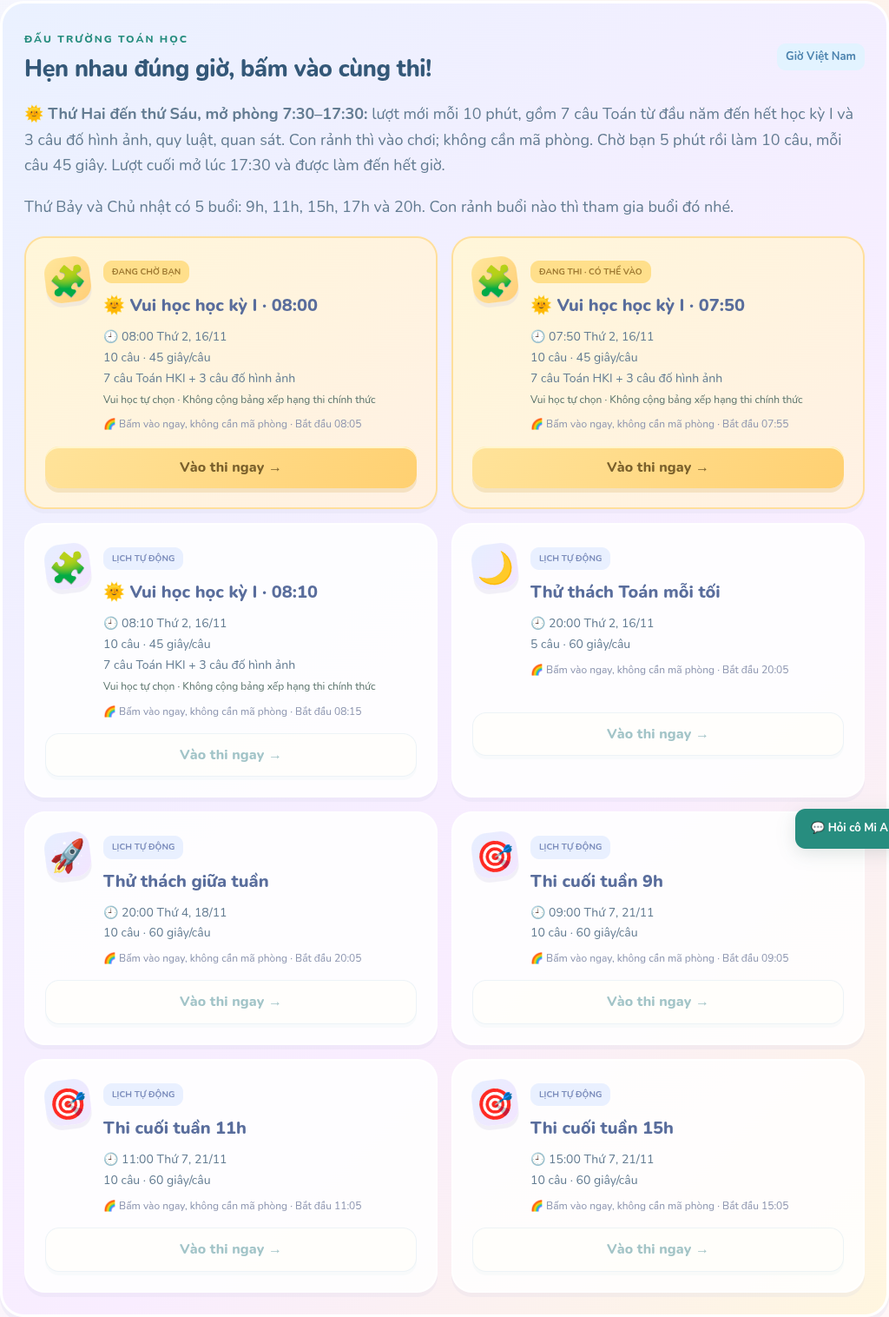
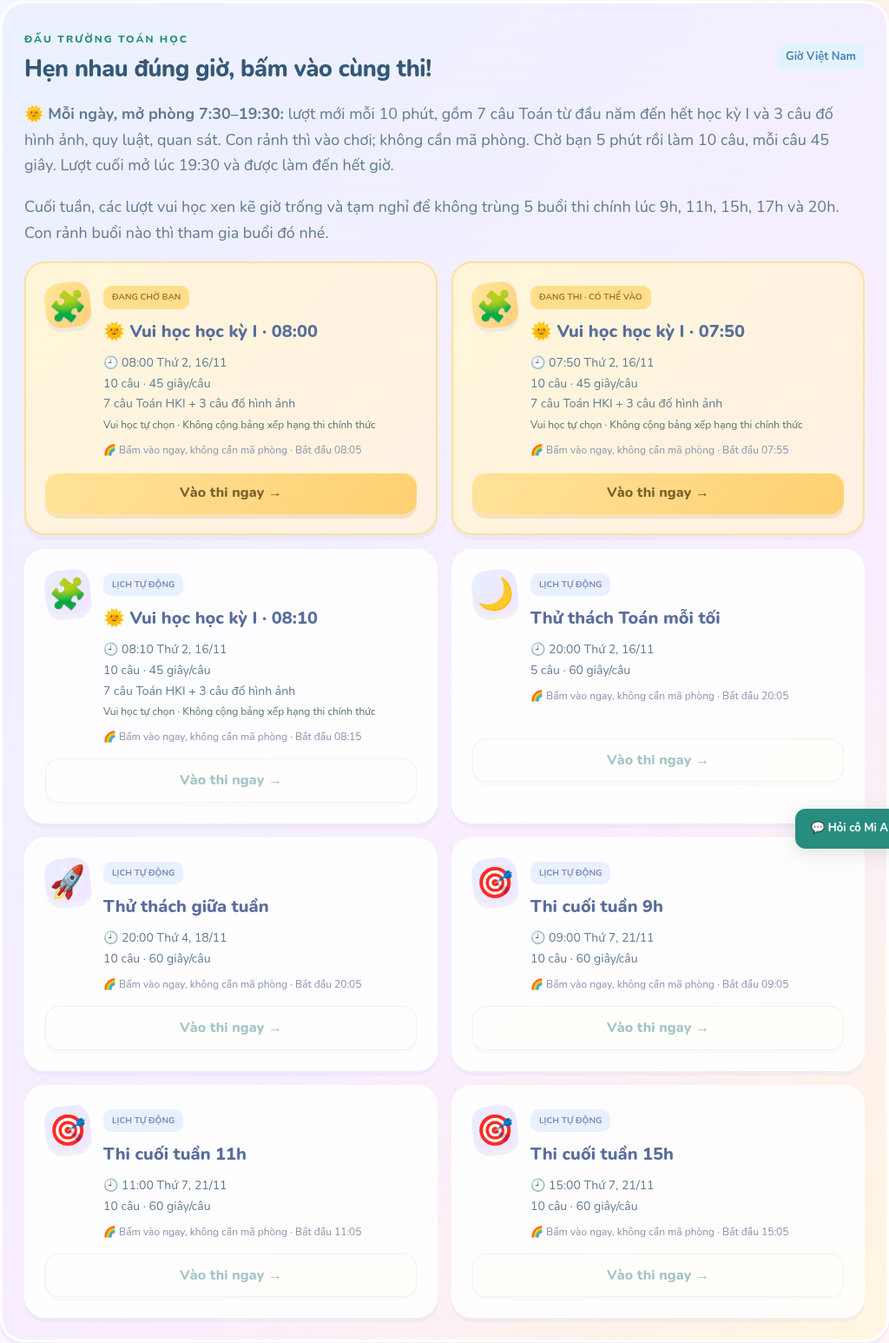
Extend practice to 19:30 daily and fill weekend gaps around main contests

diff --git a/online.js b/online.js
@@ -77,7 +77,7 @@ const MIAOnline=(()=>{
  function clockTime(t){return new Date(t).toLocaleTimeString('vi-VN',{timeZone:'Asia/Ho_Chi_Minh',hour:'2-digit',minute:'2-digit'})}
  function eventTime(e){return new Date(e.opensAt).toLocaleString('vi-VN',{timeZone:'Asia/Ho_Chi_Minh',weekday:'short',day:'2-digit',month:'2-digit',hour:'2-digit',minute:'2-digit'})}
  function preferredEvent(){let time=Date.now()+feedClockOffset,timed=contestEvents.filter(e=>e.automatic&&e.status!=='ended'&&e.startsAt>time&&e.opensAt<=time+300000).sort((a,b)=>Number(b.canJoin)-Number(a.canJoin)||a.opensAt-b.opensAt);if(timed.length)return timed[0];let active=contestEvents.filter(e=>e.canJoin&&e.status!=='ended');return active.sort((a,b)=>Number(a.entryMode!=='open')-Number(b.entryMode!=='open')||Number(a.type==='daily')-Number(b.type==='daily')||b.opensAt-a.opensAt)[0]||contestEvents.filter(e=>e.status!=='ended').sort((a,b)=>a.opensAt-b.opensAt)[0]}
- function contestHub(){return `<section class="mia-contest-hub"><div class="section-head"><div><span class="eyebrow">ĐẤU TRƯỜNG TOÁN HỌC</span><h2>Hẹn nhau đúng giờ, bấm vào cùng thi!</h2></div><span class="tag">Giờ Việt Nam</span></div><p><strong>🌞 Thứ Hai đến thứ Sáu, mở phòng 7:30–17:30:</strong> lượt mới mỗi 10 phút, gồm 7 câu Toán từ đầu năm đến hết học kỳ I và 3 câu đố hình ảnh, quy luật, quan sát. Con rảnh thì vào chơi; không cần mã phòng. Chờ bạn 5 phút rồi làm 10 câu, mỗi câu 45 giây. Lượt cuối mở lúc 17:30 và được làm đến hết giờ.</p><p>Thứ Bảy và Chủ nhật có 5 buổi: 9h, 11h, 15h, 17h và 20h. Con rảnh buổi nào thì tham gia buổi đó nhé.</p><div id="contestCards">${contestCards()}</div></section>`}
+ function contestHub(){return `<section class="mia-contest-hub"><div class="section-head"><div><span class="eyebrow">ĐẤU TRƯỜNG TOÁN HỌC</span><h2>Hẹn nhau đúng giờ, bấm vào cùng thi!</h2></div><span class="tag">Giờ Việt Nam</span></div><p><strong>🌞 Mỗi ngày, mở phòng 7:30–19:30:</strong> lượt mới mỗi 10 phút, gồm 7 câu Toán từ đầu năm đến hết học kỳ I và 3 câu đố hình ảnh, quy luật, quan sát. Con rảnh thì vào chơi; không cần mã phòng. Chờ bạn 5 phút rồi làm 10 câu, mỗi câu 45 giây. Lượt cuối mở lúc 19:30 và được làm đến hết giờ.</p><p>Cuối tuần, các lượt vui học xen kẽ giờ trống và tạm nghỉ để không trùng 5 buổi thi chính lúc 9h, 11h, 15h, 17h và 20h. Con rảnh buổi nào thì tham gia buổi đó nhé.</p><div id="contestCards">${contestCards()}</div></section>`}
  function contestCards(){let daytime=contestEvents.filter(e=>e.type==='daytime'&&e.status!=='ended').sort((a,b)=>Number(b.canJoin)-Number(a.canJoin)||Number(b.status==='waiting')-Number(a.status==='waiting')||a.opensAt-b.opensAt).slice(0,3),list=[...daytime,...contestEvents.filter(e=>e.type!=='daytime'&&e.status!=='ended').slice(0,5)];return list.length?`<div class="mia-contest-cards">${list.map(e=>`<article class="mia-event-card ${e.canJoin?'live':''}"><span class="mia-event-icon">${({midweek:'🚀',weekend:'🏆',daily:'🌙',daytime:'🧩'})[e.type]||'🎯'}</span><div><span class="tag">${e.canJoin?(e.type==='daytime'?(e.status==='waiting'?'ĐANG CHỜ BẠN':'ĐANG THI · CÓ THỂ VÀO'):'ĐANG MỞ PHÒNG'):e.createdBy==='admin'?'ADMIN TỔ CHỨC':'LỊCH TỰ ĐỘNG'}</span><h3>${escape(e.title)}</h3><p>🕘 ${escape(eventTime(e))}<br>${e.total} câu · ${e.seconds} giây/câu${e.type==='daytime'?'<br>7 câu Toán HKI + 3 câu đố hình ảnh<br><em>Vui học tự chọn · Không cộng bảng xếp hạng thi chính thức</em>':''}</p><small>${e.entryMode==='open'?'🌈 Bấm vào ngay, không cần mã phòng':'🔑 Dùng mã phòng do admin cấp'}${e.startsAt?' · Bắt đầu '+clockTime(e.startsAt):' · Chờ cô bắt đầu'}</small></div><button class="btn ${e.canJoin?'gold':'secondary'}" onclick="MIAOnline.joinContest('${escape(e.id)}')" ${!e.canJoin?'disabled':''}>${e.entryMode==='open'?'Vào thi ngay →':'Nhập mã phòng →'}</button></article>`).join('')}</div>`:'<p class="meta">Cô đang tải lịch thi. Thứ Tư và Chủ nhật lúc 20h đều có thử thách cho em!</p>'}
  function renderDailyNotice(){let el=$('#dailyNotice'),e=preferredEvent();if(!el||!e)return;let preMinutes=Math.ceil((e.opensAt-Date.now()-feedClockOffset)/60000),soon=preMinutes>0&&preMinutes<=5;let active=e.canJoin,inRoom=!!room&&(snapshot?.room.publicId===e.id||e.id==='daily'&&snapshot?.room.contestType==='daily');el.classList.toggle('in-room',!!room);el.classList.toggle('is-live',active);el.classList.remove('hidden');let markup=`<span class="mia-bell-icon" aria-hidden="true">${active?'🔔':e.type==='weekend'?'🏆':'🚀'}</span><div><b>${active?'Đến giờ mở phòng cùng cô Mi A!':soon?'Còn '+preMinutes+' phút đến giờ mở phòng thi!':escape(e.title)}</b><small>${escape(eventTime(e))} · ${e.entryMode==='open'?'Bấm vào ngay, không cần mã phòng':'Admin chọn vào bằng mã phòng'}${e.startsAt?' · Làm bài từ '+clockTime(e.startsAt):''}</small></div><div class="btn-row"><button class="btn ${active?'gold':'secondary'}" onclick="MIAOnline.joinContest('${escape(e.id)}')" ${!active||inRoom?'disabled':''}>${inRoom?'Em đang trong phòng':e.entryMode==='code'?'Nhập mã phòng →':auth?'Vào thi ngay →':'Đăng nhập để vào thi →'}</button><button class="mia-bell-toggle" onclick="MIAOnline.enableBell()" aria-pressed="${bellEnabled}">${bellEnabled?'🔊 Chuông đã bật':'🔔 Bật chuông nhắc thi'}</button></div>`;if(el.innerHTML!==markup)el.innerHTML=markup;if($('#contestCards')){let cards=contestCards();if($('#contestCards').innerHTML!==cards)$('#contestCards').innerHTML=cards}}
  async function joinContest(id){let revision=authEpoch;if(typeof MIAExamLobby!=='undefined')MIAExamLobby.unlock();if(id==='daily')return joinDaily(true);if(busy)return;if(typeof ExamTeacher!=='undefined')ExamTeacher.unlock();if(!auth?.token){pendingInvite=id;location.hash='#online';redraw();toast('Em đăng nhập bằng tên và mã riêng một lần để vào thi.');return}let e=contestEvents.find(e=>e.id===id);if(e?.entryMode==='code'){pendingInvite=null;location.hash='#online';redraw();$('#joinCode')?.focus();toast('Cuộc thi này dùng mã phòng do admin cấp.');return}if(room){if(snapshot?.room.publicId===id)return;toast('Em hãy rời phòng hiện tại trước nhé.');return}busy=true;try{let d=await api('contests/'+encodeURIComponent(id)+'/join','POST',{});if(revision!==authEpoch||!auth)return;snapshot=d;clockOffset=d.serverTime-Date.now();room=d.room.code;roomVersion++;selected=null;pendingInvite=null;stopSpeech();location.hash='#online';redraw();startPolling();renderDailyNotice()}catch(error){if(revision!==authEpoch)return;toast(error.message);if(error.status===401){auth=null;recordAuth();pendingInvite=id;location.hash='#online';redraw()}}finally{if(revision===authEpoch)busy=false}}

diff --git a/online-server/worker/index.js b/online-server/worker/index.js
@@ -58,7 +58,7 @@ async function importData(env,backup){
  let meta=backup.tables.room_settings;if(new Set(meta.map(x=>x.room_code)).size!==meta.length||new Set(meta.map(x=>x.public_id)).size!==meta.length||meta.some(x=>!rooms.has(x.room_code)||!/^[a-f0-9-]{36}$/.test(x.public_id)||!['open','code'].includes(x.entry_mode)||!['custom','midweek','weekend'].includes(x.contest_type)||!['daily','week','month','term'].includes(x.scope)||!['admin','auto'].includes(x.created_by)||![0,1].includes(x.auto_run)||!Number.isSafeInteger(x.opens_at)||x.scheduled_at!==null&&!Number.isSafeInteger(x.scheduled_at)||x.auto_run===1&&x.scheduled_at===null||x.slot_date!==null&&(!/^20[0-9]{2}-[0-9]{2}-[0-9]{2}$/.test(x.slot_date)||weeklyType(x.slot_date)!==x.contest_type)))fail(400,'Lịch hoặc cách vào cuộc thi trong bản sao không hợp lệ.');let official=meta.filter(x=>x.slot_date!==null).map(x=>x.contest_type+':'+x.slot_date);if(new Set(official).size!==official.length)fail(400,'Bản sao có buổi thi tuần trùng.');
  for(let table of ['study_days','learning_activity']){let rows=backup.tables[table],keys=rows.map(r=>r.student_id+':'+(r.study_date||r.event_id));if(new Set(keys).size!==rows.length||rows.some(r=>!students.has(r.student_id)))fail(400,'Hoạt động học không hợp lệ.');for(let r of rows){if(table==='study_days'&&(!/^20\d{2}-\d{2}-\d{2}$/.test(r.study_date)||!Number.isSafeInteger(r.first_at)||!Number.isSafeInteger(r.last_at)))fail(400,'Ngày chuyên cần không hợp lệ.');if(table==='learning_activity'){if(!['lecture-complete','theory-read','book-read','practice','self-exam'].includes(r.kind)||!Number.isInteger(r.lesson_day)||r.lesson_day<1||r.lesson_day>175||!Number.isSafeInteger(r.event_at)||!Number.isSafeInteger(r.received_at)||r.event_id.length>150)fail(400,'Hoạt động học không hợp lệ.');try{JSON.parse(r.payload)}catch{fail(400,'Chi tiết học không hợp lệ.')}}}}
  if(backup.tables.ai_controls.length>1||backup.tables.ai_controls.some(r=>r.id!==1||![0,1].includes(r.enabled)))fail(400,'Cấu hình AI không hợp lệ.');
- const daytime=backup.tables.daytime_sessions;if(new Set(daytime.map(r=>r.slot_date+':'+r.minute)).size!==daytime.length||new Set(daytime.map(r=>r.room_code)).size!==daytime.length||daytime.some(r=>!rooms.has(r.room_code)||!/^20\d{2}-\d{2}-\d{2}$/.test(r.slot_date)||![1,2,3,4,5].includes(weekdayVN(r.slot_date))||!Number.isInteger(r.minute)||r.minute<450||r.minute>1050||(r.minute-450)%10||!backup.tables.room_settings.some(m=>m.room_code===r.room_code&&m.auto_run===1&&m.entry_mode==='open'&&m.created_by==='auto'&&m.opens_at===daytimeOpens(r.slot_date,r.minute)&&m.scheduled_at===m.opens_at+DAILY_LOBBY_MS)))fail(400,'Buổi vui học ban ngày trong bản sao không hợp lệ.');
+ const daytime=backup.tables.daytime_sessions;if(new Set(daytime.map(r=>r.slot_date+':'+r.minute)).size!==daytime.length||new Set(daytime.map(r=>r.room_code)).size!==daytime.length||daytime.some(r=>!rooms.has(r.room_code)||!/^20\d{2}-\d{2}-\d{2}$/.test(r.slot_date)||!daytimeAllowed(r.slot_date,r.minute)||!backup.tables.room_settings.some(m=>m.room_code===r.room_code&&m.auto_run===1&&m.entry_mode==='open'&&m.created_by==='auto'&&m.opens_at===daytimeOpens(r.slot_date,r.minute)&&m.scheduled_at===m.opens_at+DAILY_LOBBY_MS)))fail(400,'Buổi vui học ban ngày trong bản sao không hợp lệ.');
  const weekend=backup.tables.weekend_sessions;if(new Set(weekend.map(r=>r.slot_date+':'+r.hour)).size!==weekend.length||new Set(weekend.map(r=>r.room_code)).size!==weekend.length||weekend.some(r=>!rooms.has(r.room_code)||!/^20\d{2}-\d{2}-\d{2}$/.test(r.slot_date)||![0,6].includes(weekdayVN(r.slot_date))||![9,11,15,17].includes(r.hour)||!backup.tables.room_settings.some(m=>m.room_code===r.room_code&&m.auto_run===1&&m.created_by==='auto'&&[60000,300000].includes(m.scheduled_at-Date.parse(r.slot_date+'T'+String(r.hour).padStart(2,'0')+':00:00+07:00')))))fail(400,'Buổi thi cuối tuần trong bản sao không hợp lệ.');
  const messages=backup.tables.chat_messages,messageIds=new Set(messages.map(r=>r.id));if(messageIds.size!==messages.length||messages.some(r=>!Number.isSafeInteger(r.id)||r.id<1||!students.has(r.sender_id)||r.recipient_id!==null&&(!students.has(r.recipient_id)||r.recipient_id===r.sender_id)||typeof r.body!=='string'||!r.body.length||r.body.length>400||!Number.isSafeInteger(r.created_at)||![0,1].includes(r.deleted)))fail(400,'Tin nhắn trong bản sao không hợp lệ.');
  const blocks=backup.tables.chat_blocks;if(new Set(blocks.map(r=>r.owner_id+':'+r.blocked_id)).size!==blocks.length||blocks.some(r=>!students.has(r.owner_id)||!students.has(r.blocked_id)||r.owner_id===r.blocked_id))fail(400,'Chặn bạn trong bản sao không hợp lệ.');
@@ -129,7 +129,7 @@ async function snapshot(env,r,self=null,isAdmin=false){
  return{serverTime:time,room:{code:r.code,title:r.title,status:r.status,index:r.question_index,total:questions.length,seconds:r.seconds,deadline:r.deadline,startedAt:r.started_at,revealed,automatic:!!r.automatic,startsAt:r.startsAt||null,nextAt:r.automatic&&r.deadline?r.deadline+DAILY_REVEAL_MS:null,entryMode:r.entryMode||(r.automatic?'open':'code'),contestType:r.contestType||(r.automatic?'daily':'custom'),publicId:r.publicId||null},question,participants,selfId:self?.id||null,submitted:self?answers.some(a=>a.student_id===self.id&&a.question_index===r.question_index):false,isAdmin}
 }
 async function api(request,env,url){const p=url.pathname,method=request.method;
- if(p==='/api/health')return json({ok:true,app:'Học Toán cùng MIA',version:16,daytimeSessions:{weekdays:[1,2,3,4,5],opens:'07:30',lastOpening:'17:30',intervalMinutes:10,mathQuestions:7,thinkingQuestions:3},examLobbyMinutes:5,parentInsights:true,teachingCoach:true,studentTrials:true,speechFallback:true,friendsChat:true,weekendSessions:[9,11,15,17,20],aiAdvisor:true,studentTerms:true,rewardsAndReports:true,weeklyContests:true,adaptiveLearning:true,examCoaching:true,dailyExamTime:'20:00',timezone:'Asia/Ho_Chi_Minh',authMode:standalone(env)?'standalone':'sites'});
+ if(p==='/api/health')return json({ok:true,app:'Học Toán cùng MIA',version:17,daytimeSessions:DAYTIME_SCHEDULE,examLobbyMinutes:5,parentInsights:true,teachingCoach:true,studentTrials:true,speechFallback:true,friendsChat:true,weekendSessions:[9,11,15,17,20],aiAdvisor:true,studentTerms:true,rewardsAndReports:true,weeklyContests:true,adaptiveLearning:true,examCoaching:true,dailyExamTime:'20:00',timezone:'Asia/Ho_Chi_Minh',authMode:standalone(env)?'standalone':'sites'});
  if(p==='/api/admin-auth/status')return json({mode:standalone(env)?'standalone':'sites',configured:standalone(env)?adminConfigured(env):true});
  if(p==='/api/admin-auth/login'&&method==='POST'){
   if(!standalone(env))fail(409,'Máy chủ cũ vẫn dùng đăng nhập chủ ứng dụng. Hãy triển khai bản độc lập từ GitHub Actions.');if(!adminConfigured(env))fail(503,'Chưa cấu hình mật khẩu admin trên máy chủ.');

diff --git a/index.html b/index.html
@@ -2,4 +2,4 @@
 <aside class="sidebar"><a class="brand" href="#home"><span class="brand-icon">✿</span><span style="font-size:19px;line-height:1.3">Học Toán cùng <strong style="display:block;font-size:30px;letter-spacing:3px">MIA</strong><span class="brand-sub">LỚP 4 · CÔ MI A</span></span></a><div class="side-label">GÓC HỌC TẬP CỦA EM</div><nav><a href="#home" data-nav="home">🏡 <span>Hôm nay học gì?</span></a><a href="#roadmap" data-nav="roadmap">📚 <span>Học theo sách giáo khoa</span></a><a href="#exams" data-nav="exams">🧮 <span>Góc kiểm tra</span></a><a href="#online" data-nav="online">🏆 <span>Phòng thi online 3D</span></a><a href="#advisor" data-nav="advisor">🧠 <span>Cố vấn học tập MIA</span></a><a href="#progress" data-nav="progress">🌟 <span>Thành quả của em</span></a><a href="#honors" data-nav="honors">🏅 <span>Vườn sao chăm học</span></a><a href="#parents" data-nav="parents">📋 <span>Báo cáo học tập cho phụ huynh</span></a><a href="#library" data-nav="library">🎒 <span>Thư viện tài liệu</span></a><a href="#friends" data-nav="friends" class="nav-chat">💬 <span>Chat cùng bạn</span></a></nav><div class="side-note"><span>🌱</span><b>Mỗi ngày một chút,<br>em sẽ giỏi hơn!</b><p>Cứ hỏi cô khi em chưa hiểu nhé.</p></div><div class="offline">● Nội dung học dùng ngoại tuyến</div></aside>
 <div class="shell"><header><div><span class="breadcrumb">Học Toán cùng MIA</span> <span class="divider">/</span> <span id="crumb">Góc học tập</span></div><div class="header-account-actions"><button id="privateMessageNotice" class="private-message-notice" hidden onclick="MIAFriends.openUnread()" aria-live="polite"></button><button class="profile" onclick="window.MIAAccess?.allowed()?location.hash='parents':location.hash='online'">🌼 <span id="profileName">Bạn nhỏ lớp 4</span></button><button id="logoutAccountButton" class="account-logout" type="button" hidden onclick="MIAOnline.logout()" aria-label="Thoát tài khoản học sinh">↪ <span>Thoát tài khoản</span></button></div></header><section class="mia-world-header"><div class="mia-world-copy"><span class="eyebrow">CHÀO MỪNG ĐẾN VƯỜN TOÁN CỦA EM</span><h2>Học vui mỗi ngày,<br>giỏi thêm từng chút! <span>✦</span></h2><p>Cô Mi A cùng em khám phá, luyện tập và chinh phục thử thách.</p><div class="mia-world-tags"><span>🌷 Cô luôn ở đây</span><span>🏆 Cùng bạn bè tỏa sáng</span></div></div><div id="miaWorldCanvas" aria-label="Đảo Toán 3D với cô Mi A và các khối số" role="img"></div></section><section id="dailyNotice" class="mia-daily-notice hidden" aria-label="Lịch thi hằng ngày" aria-live="polite"></section><section id="communityStrip" class="community-strip" aria-live="polite"></section><main id="app"></main><section id="friendDock" class="friend-dock" aria-label="Bạn đang online"></section><footer>Học Toán cùng MIA · Kết nối tri thức với cuộc sống · Học từng bước, hiểu thật chắc.</footer></div>
 <button class="chat-launch" id="chatLaunch" onclick="toggleChat()">💬 Hỏi cô Mi A</button><section id="chat" class="chat hidden" aria-label="Trò chuyện với cô Mi A"><div class="chat-head"><span>🌷 <b>Cô Mi A ở đây!</b><small>Gia sư theo bài · Có AI diễn giải bổ trợ</small></span><button onclick="toggleChat()" aria-label="Đóng hội thoại">×</button></div><div id="messages" class="messages" aria-live="polite"></div><div class="quick"><button onclick="ask('Cô giảng lại nhé')">Giảng lại</button><button onclick="ask('Cho em ví dụ')">Ví dụ</button><button onclick="ask('Cô hỏi em nhé')">Cô hỏi em</button></div><form id="chatForm"><label class="sr" for="chatInput">Câu hỏi của em</label><input id="chatInput" placeholder="Em muốn hỏi cô điều gì?" autocomplete="off"><button type="button" onclick="listen()" aria-label="Nói qua micro">🎙</button><button type="submit" aria-label="Gửi câu hỏi">➜</button></form><small class="chat-info">Micro tùy trình duyệt, có thể cần Internet. Em luôn có thể gõ.</small></section>
-<div id="toast" role="status"></div><script src="data.js"></script><script src="guides.js"></script><script src="questions.js"></script><script src="voices.js?v=2"></script><script src="config.js?v=standalone1"></script><script src="exam-audio.js?v=coach1"></script><script src="exam-teacher.js?v=coach1"></script><script src="learning.js?v=ai1"></script><script src="advisor-core.js?v=ai1"></script><script src="teaching-core.js?v=coach2"></script><script src="advisor.js?v=coach2"></script><script src="lesson-studio.js?v=study1"></script><script src="studio-audio.js?v=study1"></script><script src="studio-player.js?v=slow1"></script><script src="trial.js?v=trial1"></script><script src="exam-lobby.js?v=lobby1"></script><script src="thinking-pictures.js?v=daytime1"></script><script src="online.js?v=daytime1"></script><script src="rewards.js?v=daytime1"></script><script src="self-tests.js?v=login1"></script><script src="friends.js?v=visual1"></script><script src="lesson-visuals.js?v=visual1"></script><script src="access.js?v=trial1"></script><script src="speech-readings.js?v=daytime1"></script><script src="speech-reader.js?v=daytime1"></script><script src="coach-audio.js?v=coach2"></script><script src="lesson-coach.js?v=coach2"></script><script src="app.js?v=parents1"></script><script type="module" src="world3d.js?v=world1"></script></body></html>
+<div id="toast" role="status"></div><script src="data.js"></script><script src="guides.js"></script><script src="questions.js"></script><script src="voices.js?v=2"></script><script src="config.js?v=standalone1"></script><script src="exam-audio.js?v=coach1"></script><script src="exam-teacher.js?v=coach1"></script><script src="learning.js?v=ai1"></script><script src="advisor-core.js?v=ai1"></script><script src="teaching-core.js?v=coach2"></script><script src="advisor.js?v=coach2"></script><script src="lesson-studio.js?v=study1"></script><script src="studio-audio.js?v=study1"></script><script src="studio-player.js?v=slow1"></script><script src="trial.js?v=trial1"></script><script src="exam-lobby.js?v=lobby1"></script><script src="thinking-pictures.js?v=daytime1"></script><script src="online.js?v=daytime2"></script><script src="rewards.js?v=daytime1"></script><script src="self-tests.js?v=login1"></script><script src="friends.js?v=visual1"></script><script src="lesson-visuals.js?v=visual1"></script><script src="access.js?v=trial1"></script><script src="speech-readings.js?v=daytime1"></script><script src="speech-reader.js?v=daytime1"></script><script src="coach-audio.js?v=coach2"></script><script src="lesson-coach.js?v=coach2"></script><script src="app.js?v=parents1"></script><script type="module" src="world3d.js?v=world1"></script></body></html>

diff --git a/online-server/worker/daytime.js b/online-server/worker/daytime.js
@@ -1,10 +1,12 @@
-// Optional weekday practice. Only materialize overlapping open rounds and the next slot.
+// Optional daily practice, outside the main weekend contests. Only materialize overlapping open rounds and the next slot.
 function daytimeOpens(date,minute){return Date.parse(date+'T'+String(Math.floor(minute/60)).padStart(2,'0')+':'+String(minute%60).padStart(2,'0')+':00+07:00')}
-function daytimeSlots(t){let date=vietnamDate(t);if(![1,2,3,4,5].includes(weekdayVN(date)))return[];let start=daytimeOpens(date,450),minute=450+Math.floor((t-start)/600000)*10;return[minute-10,minute,minute+10].filter(m=>m>=450&&m<=1050&&t<daytimeOpens(date,m)+DAILY_LOBBY_MS+530000).map(minute=>({date,minute,opens:daytimeOpens(date,minute)}))}
+function daytimeAllowed(date,minute){if(!Number.isInteger(minute)||minute<450||minute>1170||(minute-450)%10)return false;if([0,6].includes(weekdayVN(date))){let end=minute*60000+DAILY_LOBBY_MS+530000;return ![9,11,15,17].some(hour=>minute*60000<hour*3600000+DAILY_LOBBY_MS+680000&&end>hour*3600000)}return true}
+const DAYTIME_SCHEDULE={weekdays:[1,2,3,4,5,6,0],opens:'07:30',lastOpening:'19:30',intervalMinutes:10,mathQuestions:7,thinkingQuestions:3,weekendBetweenMainContests:true};
+function daytimeSlots(t){let date=vietnamDate(t);let start=daytimeOpens(date,450),minute=450+Math.floor((t-start)/600000)*10;return[minute-10,minute,minute+10].filter(m=>daytimeAllowed(date,m)&&t<daytimeOpens(date,m)+DAILY_LOBBY_MS+530000).map(minute=>({date,minute,opens:daytimeOpens(date,minute)}))}
 function daytimeQuestions(seed){let qs=makeRangeExam(1,90,7).qs.map(q=>({...q,options:choices(q)})),puzzles=MIADaytimeBank.select(seed);for(let q of puzzles){q.options=shuffle(q.options)}return[...qs.slice(0,2),puzzles[0],...qs.slice(2,4),puzzles[1],...qs.slice(4),puzzles[2]]}
 async function ensureDaytimeSessions(env,t=now()){
  for(let slot of daytimeSlots(t)){if(await first(env.DB,'SELECT room_code FROM daytime_sessions WHERE slot_date=? AND minute=?',slot.date,slot.minute))continue;let c=code().slice(0,6),id=crypto.randomUUID(),qs=daytimeQuestions(Math.floor(slot.opens/600000)),title='🌞 Vui học học kỳ I · '+String(Math.floor(slot.minute/60)).padStart(2,'0')+':'+String(slot.minute%60).padStart(2,'0');
  await env.DB.batch([env.DB.prepare('INSERT INTO rooms(code,title,questions,seconds,created_at) SELECT ?,?,?,45,? WHERE NOT EXISTS(SELECT 1 FROM daytime_sessions WHERE slot_date=? AND minute=?)').bind(c,title,JSON.stringify(qs),slot.opens,slot.date,slot.minute),env.DB.prepare("INSERT INTO room_settings(room_code,public_id,entry_mode,contest_type,scope,opens_at,scheduled_at,auto_run,created_by) SELECT ?,?,'open','custom','term',?,?,1,'auto' WHERE EXISTS(SELECT 1 FROM rooms WHERE code=?)").bind(c,id,slot.opens,slot.opens+DAILY_LOBBY_MS,c),env.DB.prepare('INSERT INTO daytime_sessions(slot_date,minute,room_code) SELECT ?,?,? WHERE EXISTS(SELECT 1 FROM rooms WHERE code=?)').bind(slot.date,slot.minute,c,c)])
  }
 }
-function daytimeCalendar(t,events){let result=[];for(let add=0;add<8&&result.length<3;add++){let date=new Date(Date.parse(vietnamDate(t)+'T00:00:00Z')+add*86400000).toISOString().slice(0,10);if(![1,2,3,4,5].includes(weekdayVN(date)))continue;for(let minute=450;minute<=1050&&result.length<3;minute+=10){let opensAt=daytimeOpens(date,minute);if(opensAt<=t||events.some(e=>e.type==='daytime'&&e.opensAt===opensAt))continue;result.push({id:'daytime:'+date+':'+minute,title:'🌞 Vui học học kỳ I',type:'daytime',entryMode:'open',scope:'term',status:'upcoming',opensAt,startsAt:opensAt+DAILY_LOBBY_MS,endsAt:opensAt+DAILY_LOBBY_MS+530000,automatic:true,total:10,seconds:45,createdBy:'auto',canJoin:false})}}return result}
+function daytimeCalendar(t,events){let result=[];for(let add=0;add<8&&result.length<3;add++){let date=new Date(Date.parse(vietnamDate(t)+'T00:00:00Z')+add*86400000).toISOString().slice(0,10);for(let minute=450;minute<=1170&&result.length<3;minute+=10){let opensAt=daytimeOpens(date,minute);if(!daytimeAllowed(date,minute)||opensAt<=t||events.some(e=>e.type==='daytime'&&e.opensAt===opensAt))continue;result.push({id:'daytime:'+date+':'+minute,title:'🌞 Vui học học kỳ I',type:'daytime',entryMode:'open',scope:'term',status:'upcoming',opensAt,startsAt:opensAt+DAILY_LOBBY_MS,endsAt:opensAt+DAILY_LOBBY_MS+530000,automatic:true,total:10,seconds:45,createdBy:'auto',canJoin:false})}}return result}

diff --git a/online-server/worker/contests.js b/online-server/worker/contests.js
@@ -35,7 +35,7 @@ async function contestFeed(env,t=now()){
  for(let add=0;add<7;add++){let dayDate=new Date(Date.parse(date+'T00:00:00Z')+add*86400000).toISOString().slice(0,10),type=weeklyType(dayDate);if(!type)continue;if(rows.some(r=>r.contest_type===type&&r.slot_date===dayDate))continue;let opensAt=Date.parse(dayDate+'T20:00:00+07:00');if(opensAt<t)continue;events.push({id:type+':'+dayDate,title:CONTEST_LABELS[type],type,entryMode:'open',scope:'week',status:'upcoming',opensAt,startsAt:opensAt+DAILY_LOBBY_MS,endsAt:opensAt+DAILY_LOBBY_MS+10*68000,automatic:true,total:10,seconds:60,createdBy:'auto',canJoin:false})}
  for(let add=1;add<7;add++){let nextDate=new Date(Date.parse(date+'T00:00:00Z')+add*86400000).toISOString().slice(0,10);if(![0,6].includes(weekdayVN(nextDate)))continue;for(let hour of weekdayVN(nextDate)===6?[...WEEKEND_HOURS,20]:WEEKEND_HOURS){let opensAt=Date.parse(nextDate+'T'+String(hour).padStart(2,'0')+':00:00+07:00');events.push({id:'weekend-extra:'+nextDate+':'+hour,title:'Thi cuối tuần '+hour+'h',type:'weekend-extra',entryMode:'open',scope:'week',status:'upcoming',opensAt,startsAt:opensAt+DAILY_LOBBY_MS,endsAt:opensAt+DAILY_LOBBY_MS+(hour===20?5:10)*68000,automatic:true,total:hour===20?5:10,seconds:60,createdBy:'auto',canJoin:false})}}
  events.push(...daytimeCalendar(t,events));let officialToday=!!weeklyType(date)||rows.some(r=>r.slot_date===date&&r.contest_type!=='custom');if(!officialToday)events.push({id:'daily',title:'Thử thách Toán mỗi tối',type:'daily',entryMode:'open',scope:'daily',status:daily.status,opensAt:daily.opensAt,startsAt:daily.startsAt,endsAt:daily.endsAt,automatic:true,total:daily.total,seconds:daily.seconds,createdBy:'auto',canJoin:['waiting','running'].includes(daily.status)});
- return{serverTime:t,timezone:'Asia/Ho_Chi_Minh',daytime:{weekdays:[1,2,3,4,5],opens:'07:30',lastOpening:'17:30',intervalMinutes:10,mathQuestions:7,thinkingQuestions:3},weekendTimes:['09:00','11:00','15:00','17:00','20:00'],weekly:{midweek:{weekday:3,time:'20:00'},weekend:{weekday:0,time:'20:00'}},events:events.sort((a,b)=>Number(b.canJoin)-Number(a.canJoin)||a.opensAt-b.opensAt)}
+ return{serverTime:t,timezone:'Asia/Ho_Chi_Minh',daytime:DAYTIME_SCHEDULE,weekendTimes:['09:00','11:00','15:00','17:00','20:00'],weekly:{midweek:{weekday:3,time:'20:00'},weekend:{weekday:0,time:'20:00'}},events:events.sort((a,b)=>Number(b.canJoin)-Number(a.canJoin)||a.opensAt-b.opensAt)}
 }
 function validateContestMeta(b,t=now()){
  let entry=b.entryMode||'code';if(!['open','code'].includes(entry))fail(400,'Chọn vào trực tiếp hoặc dùng mã phòng.');let scheduled=b.scheduledAt==null||b.scheduledAt===''?null:Number(b.scheduledAt);

diff --git a/README.md b/README.md
@@ -141,10 +141,10 @@ Nút **Thoát tài khoản** nằm cạnh tên học sinh trên mọi trang sau 
 
 ### Vui học ban ngày (giờ Việt Nam)
 
-- Thứ Hai–thứ Sáu: mở lượt mới mỗi 10 phút, từ 07:30 đến 17:30, không cần mã phòng. Chờ bạn 5 phút; 10 câu × (45 giây làm + 8 giây xem đáp án). Lượt cuối được thi đến hết giờ. Phòng chồng thời gian để luôn có lượt trong khung giờ.
+- Mỗi ngày: mở lượt mới mỗi 10 phút, từ 07:30 đến 19:30; cuối tuần bỏ các lượt có thời gian chồng lên buổi thi chính 9h/11h/15h/17h, không cần mã phòng. Chờ bạn 5 phút; 10 câu × (45 giây làm + 8 giây xem đáp án). Lượt cuối được thi đến hết giờ. Phòng chồng thời gian để luôn có lượt trong khung giờ.
 - Mỗi lượt: 7 câu Toán từ ngày 1–90 (toàn bộ tập 1/học kỳ I) + 3 câu đố hình ảnh/từ ngữ/quy luật; 60 câu đố có hình, đáp án và gợi ý đã kiểm tra. Đây là hoạt động bổ trợ, không thay thế SGK.
 - Cô đọc câu đố bằng bản ghi âm nữ, nhắc gợi ý giữa giờ; đáp án chỉ công bố hết giờ. Kết quả và hình được lưu trong báo cáo riêng của phụ huynh. Câu đố không dùng để kết luận điểm mạnh/yếu môn Toán.
 - Lượt vui học không cộng vào bảng điểm thi chính thức. Giữ lịch buổi tối và 5 buổi cuối tuần. Chuông các lượt ban ngày chỉ nhắc khi mở mục thi online để không ngắt bài học.
-- Máy chủ tạo các lượt đang mở/tiếp theo khi có yêu cầu lịch thi hoặc cron; không tạo sẵn toàn bộ 61 lượt/ngày khi không có người dùng. Migration D1 `0011_daytime_sessions.sql`, dữ liệu lịch được sao lưu/khôi phục cùng ứng dụng.
+- Máy chủ tạo các lượt đang mở/tiếp theo khi có yêu cầu lịch thi hoặc cron; không tạo sẵn toàn bộ các lượt trong ngày khi không có người dùng. Migration D1 `0011_daytime_sessions.sql` và `0012_daytime_extended.sql`, dữ liệu lịch được sao lưu/khôi phục cùng ứng dụng.
 
 Kiểm tra thay đổi: `node online-server/build.mjs`, `node online-server/tests/daytime-sessions.test.mjs`, các kiểm tra máy chủ hiện có, `node scripts/verify-speech.cjs`. Kiểm tra giao diện tùy chọn có Playwright/Chromium: `node scripts/verify-daytime-browser.cjs`. Ảnh giao diện máy tính và điện thoại ở `docs/screenshots/daytime-contests/`.
